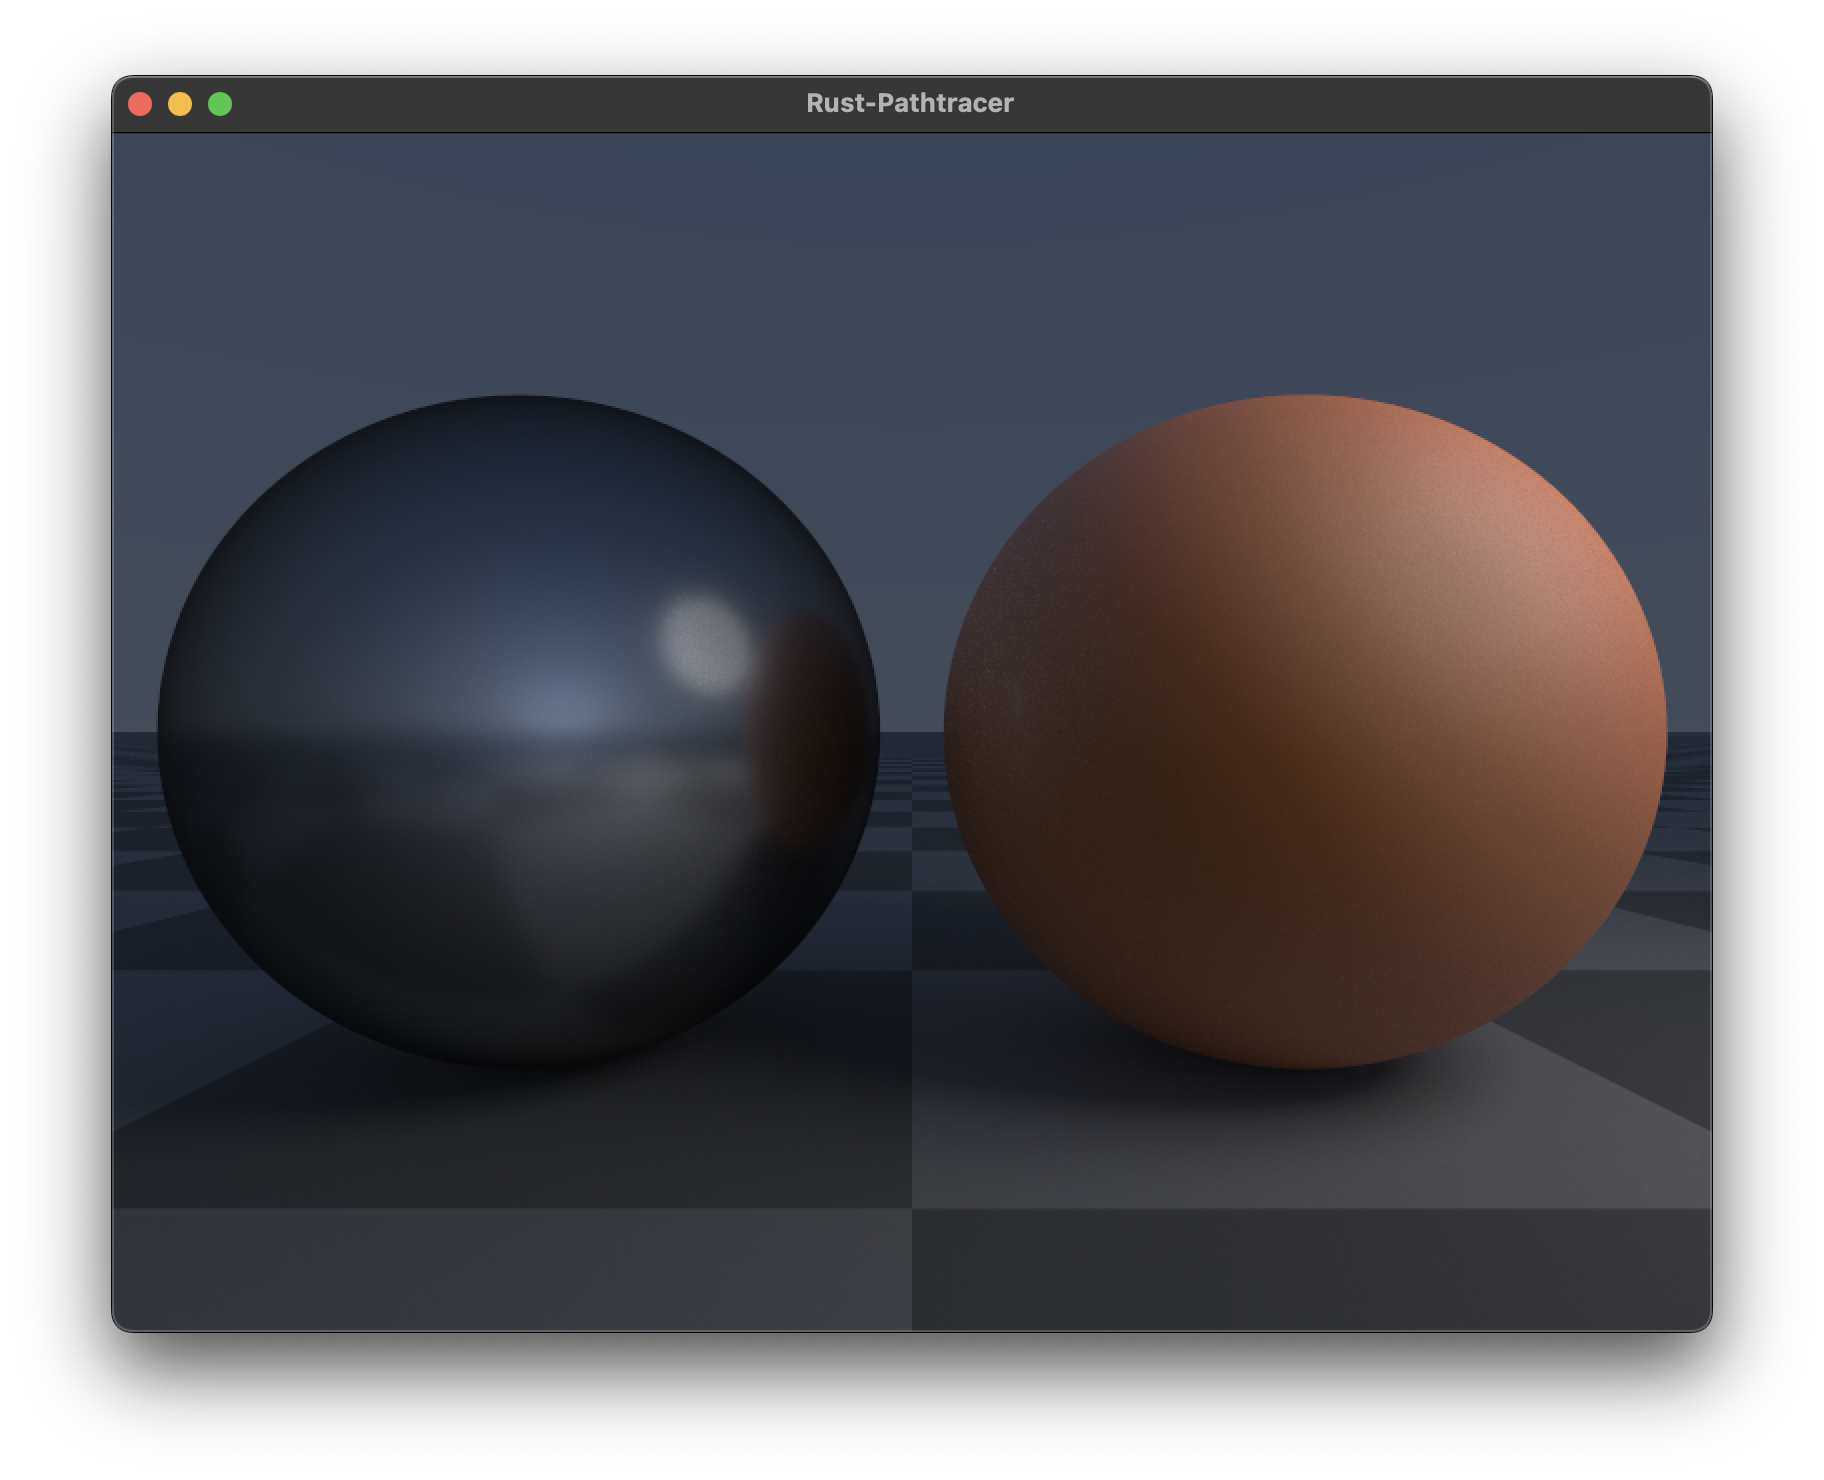
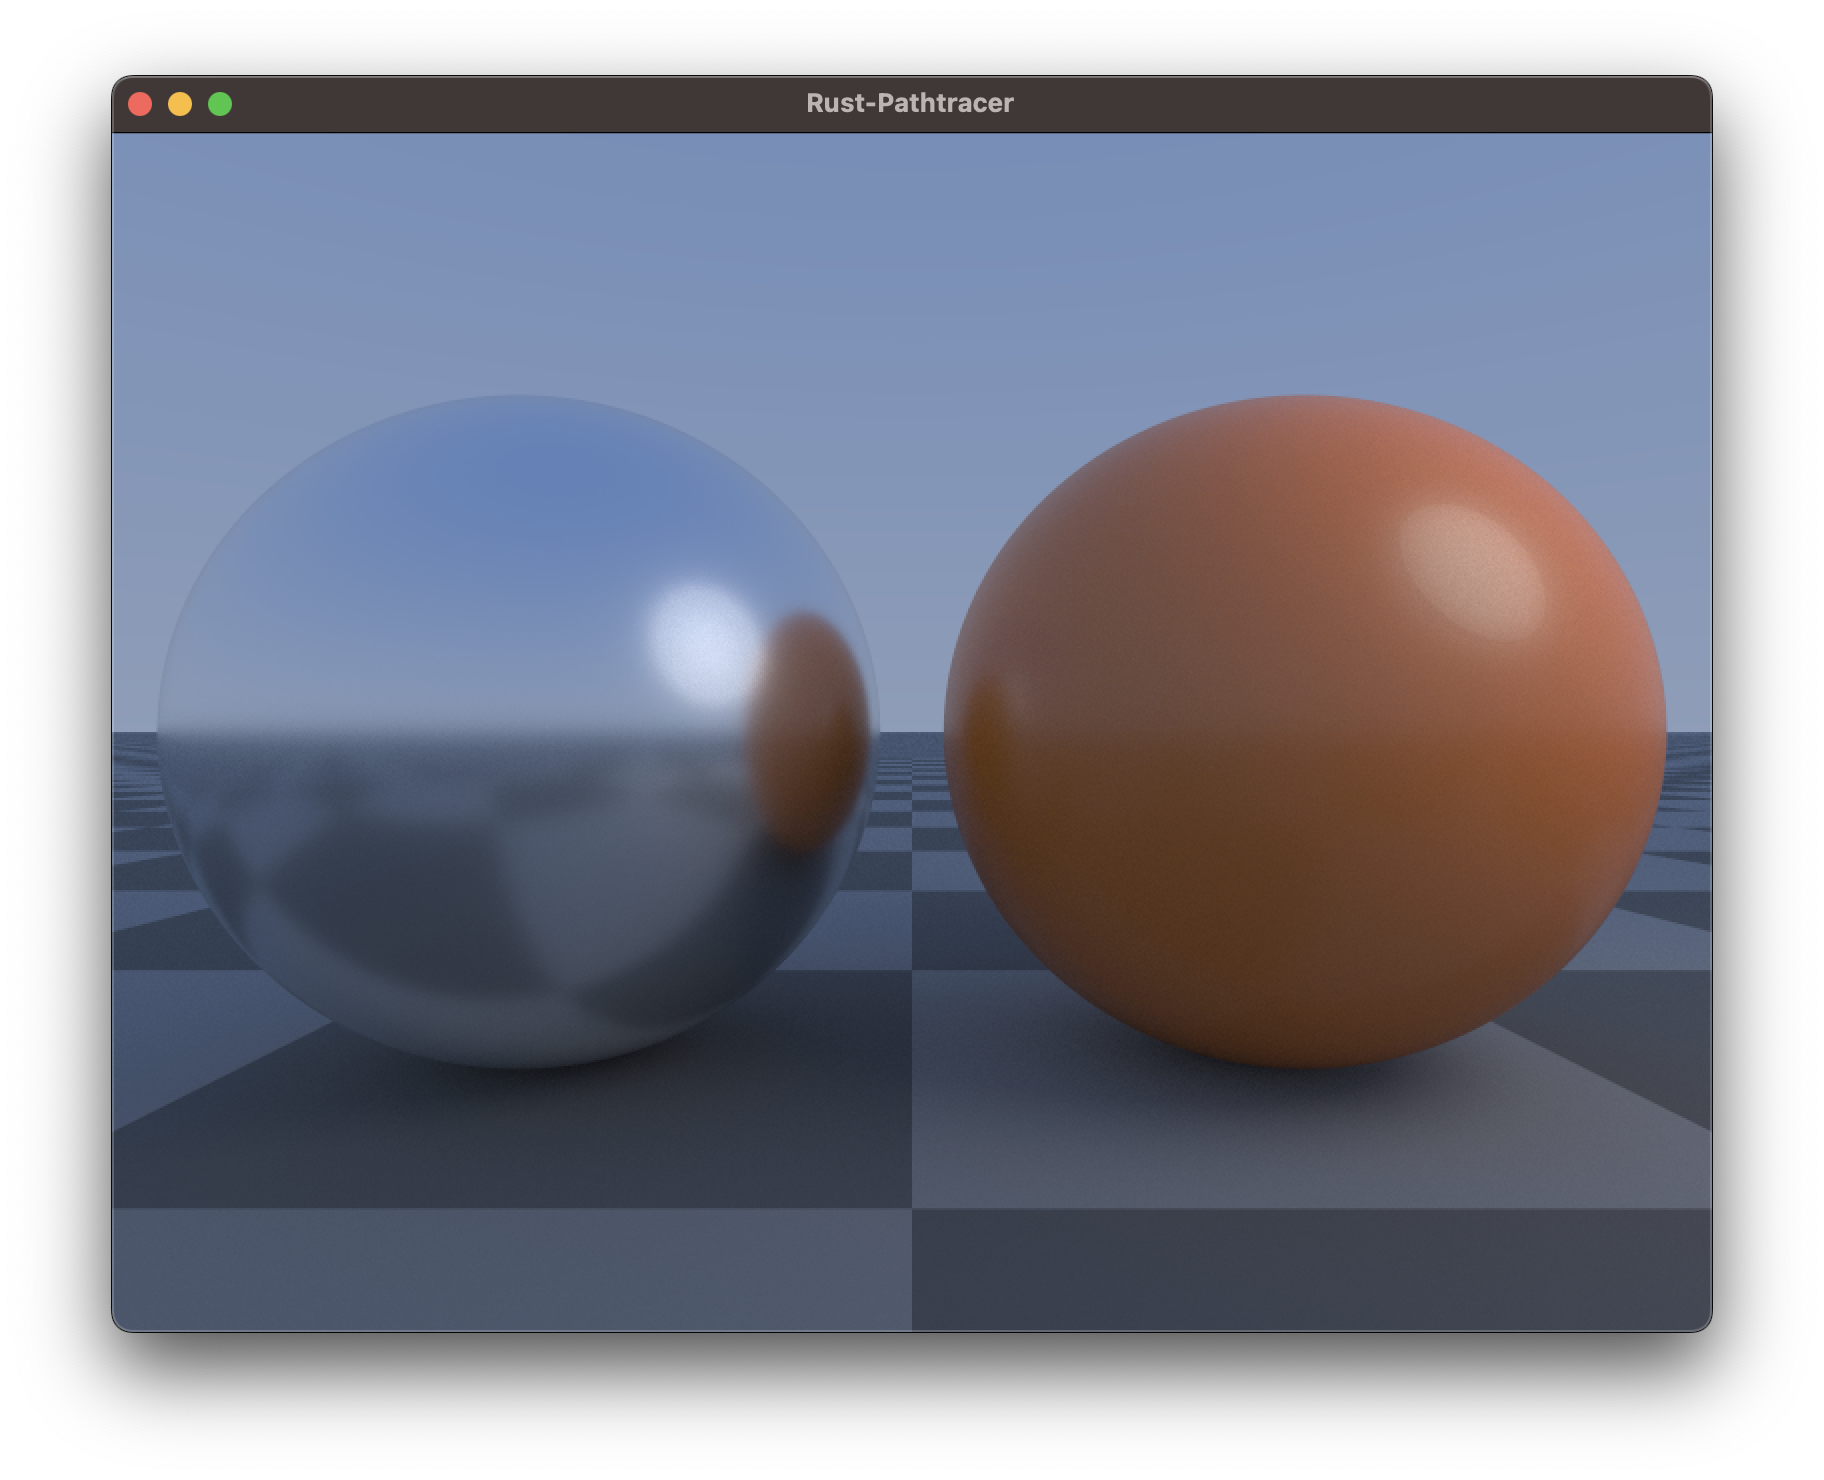
Correct light sampling

diff --git a/renderer/src/analytical.rs b/renderer/src/analytical.rs
@@ -12,7 +12,7 @@ impl Scene for AnalyticalScene {
 
     fn new() -> Self {
 
-        let em = 5.0;
+        let em = 3.0;
         let lights = vec![AnalyticalLight::spherical(F3::new(3.0, 2.0, 2.0), 1.0, F3::new(em, em, em))];
 
         Self {
@@ -28,12 +28,12 @@ impl Scene for AnalyticalScene {
     fn background(&self, ray: &Ray) -> F3 {
         // Taken from https://raytracing.github.io/books/RayTracingInOneWeekend.html, a source of great knowledge
         let t = 0.5 * (ray.direction.y + 1.0);
-        self.to_linear((1.0 - t) * F3::new(1.0, 1.0, 1.0) + t * F3::new(0.5, 0.7, 1.0)) * F3::new_x(0.8)
+        self.to_linear((1.0 - t) * F3::new(1.0, 1.0, 1.0) + t * F3::new(0.5, 0.7, 1.0)) * F3::new_x(0.5)
     }
 
 
     /// The closest hit, includes light sources.
-    fn closest_hit(&self, ray: &Ray, state: &mut State, _light: &mut LightSampleRec) -> bool {
+    fn closest_hit(&self, ray: &Ray, state: &mut State, light_sample: &mut LightSampleRec) -> bool {
 
         let mut dist = F::MAX;
         let mut hit = false;
@@ -54,7 +54,7 @@ impl Scene for AnalyticalScene {
             //state.material.roughness = 1.0;
 
             state.material.rgb = F3::new_x(1.0);//PTF3::new(0.815, 0.418501512, 0.00180012);
-            state.material.roughness = 0.02;
+            state.material.roughness = 0.05;
             state.material.metallic = 1.0;
             //state.material.spec_trans = 1.0;
 
@@ -80,9 +80,9 @@ impl Scene for AnalyticalScene {
                 state.normal = normal;
 
                 state.material.rgb = F3::new(1.0,0.186, 0.0);
-                //state.material.clearcoat = 1.0;
-                //state.material.clearcoat_gloss = 1.0;
-                state.material.roughness = 0.3;
+                state.material.clearcoat = 1.0;
+                state.material.clearcoat_gloss = 1.0;
+                state.material.roughness = 0.1;
 
                 // state.material.rgb = F3::new(0.9,0.9, 0.9);
                 // state.material.roughness = 0.2;
@@ -117,6 +117,10 @@ impl Scene for AnalyticalScene {
 
                 hit = true;
             }
+        }
+
+        if self.sample_lights(ray, state, light_sample, &self.lights) {
+            hit = true;
         }
 
         hit

diff --git a/rust-pathtracer/src/scene.rs b/rust-pathtracer/src/scene.rs
@@ -32,4 +32,56 @@ pub trait Scene : Sync + Send {
     fn to_linear(&self, c: F3) -> F3 {
         F3::new(c.x.powf(2.2), c.y.powf(2.2), c.z.powf(2.2))
     }
+
+    fn sample_lights(&self, ray: &Ray, state: &mut State, light_sample: &mut LightSampleRec, lights: &Vec<AnalyticalLight>) -> bool {
+
+        // Based on https://www.scratchapixel.com/lessons/3d-basic-rendering/minimal-ray-tracer-rendering-simple-shapes/ray-sphere-intersection
+        fn sphere(ray: &Ray, center: F3, radius: F) -> Option<F> {
+            let l = center - ray.origin;
+            let tca = l.dot(&ray.direction);
+            let d2 = l.dot(&l) - tca * tca;
+            let radius2 = radius * radius;
+            if d2 > radius2 {
+                return None;
+            }
+            let thc = (radius2 - d2).sqrt();
+            let mut t0 = tca - thc;
+            let mut t1 = tca + thc;
+
+            if t0 > t1 {
+                std::mem::swap(&mut t0, &mut t1);
+            }
+
+            if t0 < 0.0 {
+                t0 = t1;
+                if t0 < 0.0 {
+                    return None;
+                }
+            }
+
+            Some(t0)
+    }
+
+        let mut hit = false;
+        let mut dist = state.hit_dist;
+
+        for light in lights {
+            if light.light.light_type == LightType::Spherical {
+                if let Some(d) = sphere(ray, light.light.position, light.light.radius) {
+                    if d < dist {
+                        dist = d;
+                        let hit_point = ray.at(&d);
+                        let cos_theta = dot(&-ray.direction, &normalize(&(hit_point - light.light.position)));
+                        light_sample.pdf = (dist * dist) / (light.light.area * cos_theta * 0.5);
+                        light_sample.emission = light.light.emission;
+                        state.is_emitter = true;
+                        state.hit_dist = d;
+                        hit = true;
+                    }
+                }
+            }
+        }
+
+        hit
+    }
 }

diff --git a/rust-pathtracer/src/tracer.rs b/rust-pathtracer/src/tracer.rs
@@ -73,6 +73,19 @@ impl Tracer {
 
                         radiance += state.material.emission * throughput;
 
+                        // Gather radiance from light and use scatterSample.pdf from previous bounce for MIS
+                        if state.is_emitter {
+                            let mut mis_weight = 1.0;
+
+                            if state.depth > 0 {
+                                mis_weight = self.power_heuristic(&scatter_sample.pdf, &light_sample.pdf);
+                            }
+
+                            radiance += mis_weight * light_sample.emission * throughput;
+
+                            break;
+                        }
+
                         radiance += self.direct_light(&ray, &state, true, &mut rng) * throughput;
 
                         // Sample BSDF for color and outgoing direction
